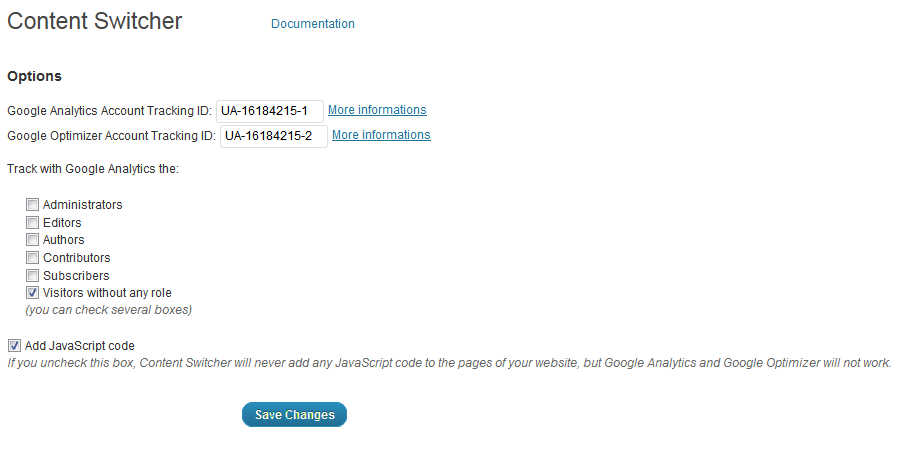
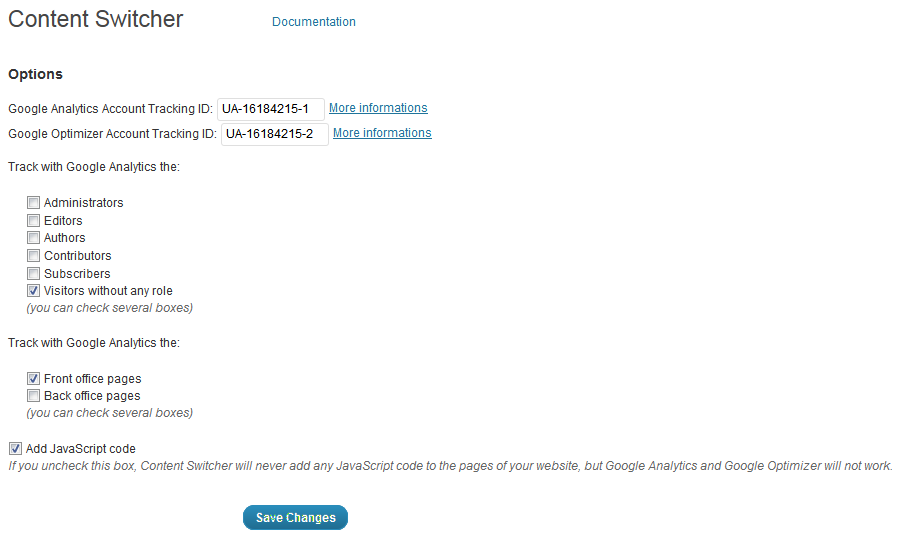
git-svn-id: https://plugins.svn.wordpress.org/content-switcher/trunk@489312 b8457f37-d9ea-0310-8a92-e5e31aec5664

Changed region(s): [[0.0, 0.1244, 0.9956, 0.9956], [0.0, 0.0, 0.2178, 0.0622], [0.28, 0.0311, 0.4044, 0.0622]]

diff --git a/content-switcher.php b/content-switcher.php
@@ -3,7 +3,7 @@
 Plugin Name: Content Switcher
 Plugin URI: http://www.kleor-editions.com/content-switcher
 Description: Allows you to easily display a random number, a random or variable content on your website, and to optimize your website with Google Optimizer and Google Analytics.
-Version: 1.8.5
+Version: 2.0
 Author: Kleor
 Author URI: http://www.kleor-editions.com
 Text Domain: content-switcher
@@ -59,7 +59,9 @@ var s = document.getElementsByTagName('script')[0]; s.parentNode.insertBefore(ga
 </script>
 <?php } }
 
-if (content_switcher_data('javascript_enabled') == 'yes') { add_action('wp_footer', 'analytics_tracking_js'); }
+if (content_switcher_data('javascript_enabled') == 'yes') {
+if (content_switcher_data('back_office_tracked') == 'yes') { add_action('admin_footer', 'analytics_tracking_js'); }
+if (content_switcher_data('front_office_tracked') == 'yes') { add_action('wp_footer', 'analytics_tracking_js'); } }
 
 
 function content_switcher_data($atts) {
@@ -95,6 +97,14 @@ $strings = array(
 __('no', 'content-switcher'),
 __('yes', 'content-switcher'));
 return __(__($string), 'content-switcher'); }
+
+
+function content_switcher_string($atts) {
+extract(shortcode_atts(array('default' => '', 'filter' => ''), $atts));
+$string = $_GET['content_switcher_string'];
+if ($string == '') { $string = $default; }
+$string = content_switcher_filter_data($filter, $string);
+return $string; }
 
 
 function content_switcher_string_map($function, $string) {
@@ -172,18 +182,19 @@ if (content_switcher_data('javascript_enabled') == 'yes') { add_action('wp_foote
 
 function random_content($atts, $content) {
 extract(shortcode_atts(array('filter' => '', 'string' => ''), $atts));
-
 if ($string != '') {
 $string = str_replace('(', '[', $string);
 $string = str_replace(')', ']', $string);
 $string = do_shortcode($string); }
-
+if (isset($_GET['content_switcher_string'])) { $original_content_switcher_string = $_GET['content_switcher_string']; }
+$_GET['content_switcher_string'] = $string;
 $content = explode('[other]', do_shortcode($content));
 $m = count($content) - 1;
 $n = mt_rand(0, $m);
-$content[$n] = str_replace('[string]', $string, $content[$n]);
-
-$content[$n] = content_switcher_filter_data($filter, $content[$n]);
+add_shortcode('string', 'content_switcher_string');
+$content[$n] = content_switcher_filter_data($filter, do_shortcode($content[$n]));
+if (isset($original_content_switcher_string)) { $_GET['content_switcher_string'] = $original_content_switcher_string; }
+remove_shortcode('string');
 return $content[$n]; }
 
 add_shortcode('random-content', 'random_content');
@@ -223,12 +234,12 @@ add_shortcode('random-number', 'random_number');
 
 function variable_content($atts, $content) {
 extract(shortcode_atts(array('filter' => '', 'name' => 'content', 'string' => '', 'type' => 'get', 'values' => ''), $atts));
-
 if ($string != '') {
 $string = str_replace('(', '[', $string);
 $string = str_replace(')', ']', $string);
 $string = do_shortcode($string); }
-
+if (isset($_GET['content_switcher_string'])) { $original_content_switcher_string = $_GET['content_switcher_string']; }
+$_GET['content_switcher_string'] = $string;
 $content = explode('[other]', do_shortcode($content));
 $m = count($content);
 
@@ -253,8 +264,10 @@ if (isset($TYPE[$name])) {
 }	
 else { $n = 0; }
 
-$content[$n] = str_replace('[string]', $string, $content[$n]);
-$content[$n] = content_switcher_filter_data($filter, $content[$n]);
+add_shortcode('string', 'content_switcher_string');
+$content[$n] = content_switcher_filter_data($filter, do_shortcode($content[$n]));
+if (isset($original_content_switcher_string)) { $_GET['content_switcher_string'] = $original_content_switcher_string; }
+remove_shortcode('string');
 return $content[$n]; }
 
 add_shortcode('variable-content', 'variable_content');

diff --git a/options-page.php b/options-page.php
@@ -21,8 +21,10 @@ $_POST = array_map('stripslashes', $_POST);
 foreach (array(
 'admin_tracked',
 'author_tracked',
+'back_office_tracked',
 'contributor_tracked',
 'editor_tracked',
+'front_office_tracked',
 'javascript_enabled',
 'subscriber_tracked',
 'visitor_tracked') as $field) { if ($_POST[$field] != 'yes') { $_POST[$field] = 'no'; } }
@@ -59,6 +61,14 @@ echo '<label>'.$value.': <input type="text" name="'.$key.'_tracking_id" id="'.$k
 'visitor' => __('Visitors without any role', 'content-switcher')) as $key => $value) {
 echo '<label><input type="checkbox" name="'.$key.'_tracked" id="'.$key.'_tracked" value="yes"'.($options[$key.'_tracked'] == 'yes' ? ' checked="checked"' : '').' /> '.$value.'<br /></label>'; } ?>
 <span class="description">(<?php _e('you can check several boxes', 'content-switcher'); ?>)</span></p>
+
+<p><?php _e('Track with Google Analytics the', 'content-switcher'); ?>:</p>
+<p style="margin: 1.5em;"><?php foreach (array(
+'front_office' => __('Front office pages', 'content-switcher'),
+'back_office' => __('Back office pages', 'content-switcher')) as $key => $value) {
+echo '<label><input type="checkbox" name="'.$key.'_tracked" id="'.$key.'_tracked" value="yes"'.($options[$key.'_tracked'] == 'yes' ? ' checked="checked"' : '').' /> '.$value.'<br /></label>'; } ?>
+<span class="description">(<?php _e('you can check several boxes', 'content-switcher'); ?>)</span></p>
+
 <p><label><input type="checkbox" name="javascript_enabled" id="javascript_enabled" value="yes"<?php if ($options['javascript_enabled'] == 'yes') { echo ' checked="checked"'; } ?> /> <?php _e('Add JavaScript code', 'content-switcher'); ?><br /></label>
 <span class="description"><?php _e('If you uncheck this box, Content Switcher will never add any JavaScript code to the pages of your website, but Google Analytics and Google Optimizer will not work.', 'content-switcher'); ?></span></p>
 <p class="submit" style="margin: 0 20%;"><input type="submit" class="button-primary" name="submit" id="submit" value="<?php _e('Save Changes'); ?>" /></p>

diff --git a/initial-options.php b/initial-options.php
@@ -2,8 +2,10 @@
 'admin_tracked' => 'no',
 'analytics_tracking_id' => '',
 'author_tracked' => 'yes',
+'back_office_tracked' => 'no',
 'contributor_tracked' => 'yes',
 'editor_tracked' => 'yes',
+'front_office_tracked' => 'yes',
 'javascript_enabled' => 'no',
 'optimizer_tracking_id' => '',
 'subscriber_tracked' => 'yes',
